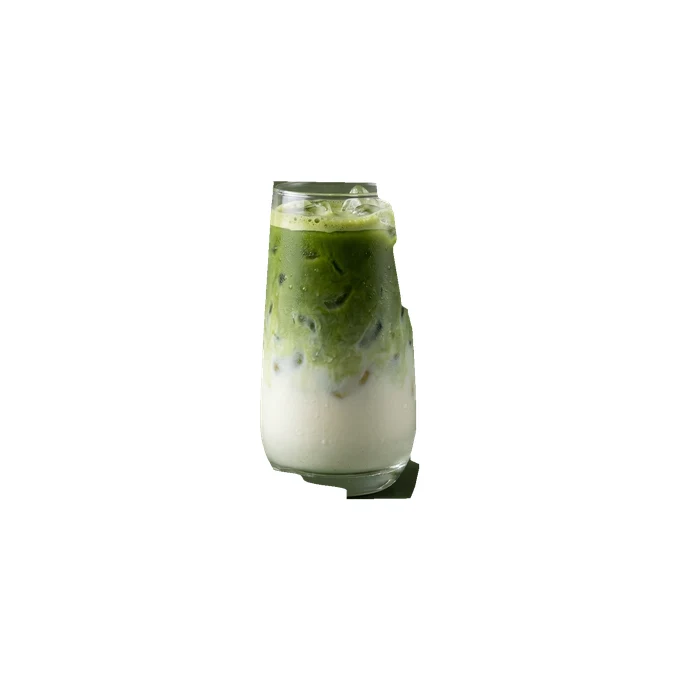
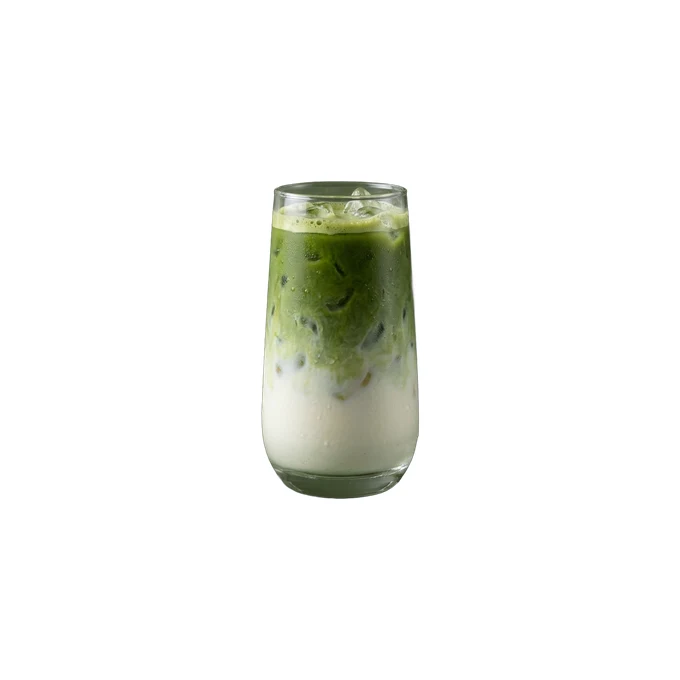
Fix matcha and sharbat cutouts, tall sizing for iced matcha

diff --git a/src/components/FadeInImage.tsx b/src/components/FadeInImage.tsx
@@ -95,16 +95,16 @@ const CUTOUT_DIMENSIONS: Record<string, { width: number; height: number }> = {
   'eyvan_coco_paradise.webp': { width: 237, height: 540 },
   'eyvan_red_mojito_v2.webp': { width: 194, height: 540 },
   'eyvan_khiar_sekanjabin.webp': { width: 230, height: 540 },
-  'eyvan_bahar_narenj_v2.webp': { width: 430, height: 540 },
+  'eyvan_bahar_narenj_v2.webp': { width: 251, height: 540 },
   'eyvan_bidmeshk.webp': { width: 254, height: 540 },
-  'eyvan_green_tea_cold.webp': { width: 333, height: 540 },
+  'eyvan_green_tea_cold.webp': { width: 279, height: 540 },
   'eyvan_hot_spirulina_v3.webp': { width: 672, height: 497 },
   'eyvan_matcha_latte_v2_v3.webp': { width: 558, height: 459 },
   'eyvan_hot_matcha_v3.webp': { width: 799, height: 540 },
-  'eyvan_iced_spirulina.webp': { width: 524, height: 540 },
-  'eyvan_strawberry_matcha_v2.webp': { width: 482, height: 540 },
-  'eyvan_iced_matcha_latte_v3.webp': { width: 273, height: 540 },
-  'eyvan_iced_matcha_v3.webp': { width: 269, height: 540 },
+  'eyvan_iced_spirulina.webp': { width: 279, height: 540 },
+  'eyvan_strawberry_matcha_v2.webp': { width: 269, height: 540 },
+  'eyvan_iced_matcha_latte_v3.webp': { width: 271, height: 540 },
+  'eyvan_iced_matcha_v3.webp': { width: 275, height: 540 },
   'hot-chocolate.webp': { width: 806, height: 618 },
   'hot_chocolate.webp': { width: 806, height: 559 },
   'hot_espresso.webp': { width: 688, height: 513 },
@@ -168,7 +168,7 @@ const CUTOUT_DIMENSIONS: Record<string, { width: number; height: number }> = {
   'eyvan_iced_date_latte.webp': { width: 270, height: 540 },
   'eyvan_red_fizz.webp': { width: 313, height: 540 },
   'eyvan_affogato.webp': { width: 392, height: 540 },
-  'eyvan_bidmeshk_v2.webp': { width: 261, height: 540 },
+  'eyvan_bidmeshk_v2.webp': { width: 267, height: 540 },
   'eyvan_khiar_sekanjabin_v2.webp': { width: 267, height: 540 },
   'eyvan_khiar_sekanjabin_v3.webp': { width: 427, height: 540 },
   'eyvan_hot_spirulina_v4.webp': { width: 675, height: 540 },
@@ -200,16 +200,16 @@ const CUTOUT_FOOT_ASPECT: Record<string, number> = {
   'eyvan_coco_paradise.webp': 0.317,
   'eyvan_red_mojito_v2.webp': 0.315,
   'eyvan_khiar_sekanjabin.webp': 0.363,
-  'eyvan_bahar_narenj_v2.webp': 0.544,
+  'eyvan_bahar_narenj_v2.webp': 0.372,
   'eyvan_bidmeshk.webp': 0.422,
-  'eyvan_green_tea_cold.webp': 0.574,
+  'eyvan_green_tea_cold.webp': 0.433,
   'eyvan_hot_spirulina_v3.webp': 0.74,
   'eyvan_matcha_latte_v2_v3.webp': 0.745,
   'eyvan_hot_matcha_v3.webp': 1.048,
-  'eyvan_iced_spirulina.webp': 0.944,
-  'eyvan_strawberry_matcha_v2.webp': 0.854,
-  'eyvan_iced_matcha_latte_v3.webp': 0.461,
-  'eyvan_iced_matcha_v3.webp': 0.431,
+  'eyvan_iced_spirulina.webp': 0.437,
+  'eyvan_strawberry_matcha_v2.webp': 0.43,
+  'eyvan_iced_matcha_latte_v3.webp': 0.424,
+  'eyvan_iced_matcha_v3.webp': 0.428,
   'eyvan_green_rush.webp': 0.496,
   'eyvan_iced_saffron_tea.webp': 0.496,
   'americano.webp': 0.61,
@@ -273,7 +273,7 @@ const CUTOUT_FOOT_ASPECT: Record<string, number> = {
   'eyvan_iced_date_latte.webp': 0.378,
   'eyvan_red_fizz.webp': 0.411,
   'eyvan_affogato.webp': 0.624,
-  'eyvan_bidmeshk_v2.webp': 0.352,
+  'eyvan_bidmeshk_v2.webp': 0.367,
   'eyvan_khiar_sekanjabin_v2.webp': 0.365,
   'eyvan_khiar_sekanjabin_v3.webp': 0.404,
   'eyvan_hot_spirulina_v4.webp': 0.426,

diff --git a/src/data/menuData.ts b/src/data/menuData.ts
@@ -1596,7 +1596,8 @@ export const MENU_ITEMS: MenuItem[] = RAW_MENU_ITEMS.map((item) => {
     item.categoryId === 'mocktails' ||
     item.categoryId === 'milkshakes' ||
     item.categoryId === 'cold-drinks' ||
-    item.categoryId === 'iced-coffee'
+    item.categoryId === 'iced-coffee' ||
+    ['iced-matcha', 'iced-matcha-latte', 'strawberry-matcha', 'iced-spirulina', 'iced-pomegranate-spirulina'].includes(item.id)
       ? 'tall'
       : 'cup';
   return {
